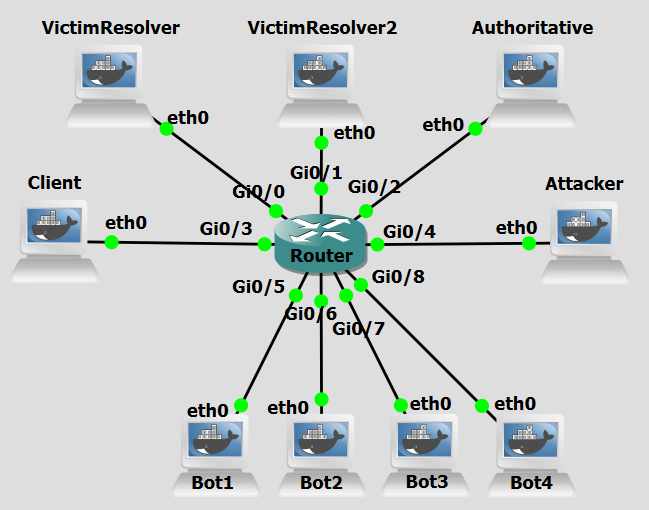
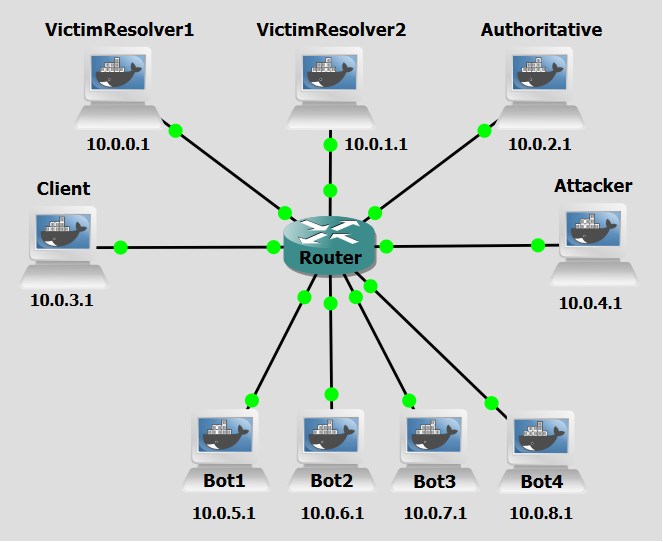
FIX GNS3 figures

Changed region(s): [[0.0308, 0.0, 1.0, 1.0]]

diff --git a/docs/attacks/abuse-misuse/ff-dgas-tunneling.md b/docs/attacks/abuse-misuse/ff-dgas-tunneling.md
@@ -78,7 +78,7 @@ The following scripts were used in this lab:
 
 # Phase 1: FFA Setup, Domain Generation and Registration
 
-### Step 1.1: Create and Configure a Sudo User for Remote Commands
+### Step 1.1: Configure a Sudo User for Remote Commands
 
 For the C&C Server to be able to run commands on the FFAs remotely via SHH it will need new user credentials.
 
@@ -375,4 +375,4 @@ Effective detection of this class of attack cannot rely on reactive, threshold-b
       Considering the three-layer combined attack explored in this lab, propose a detection strategy that could identify this attack without relying on any single stable observable (fixed domain name, fixed IP, or fixed nameserver). What data sources would you correlate, and at what point in the DNS resolution chain would you position your monitoring?
 
 ??? success "Answer"
-An effective strategy must abandon the assumption that any single observable will remain stable. Instead, detection should be based on behavioural fingerprinting across multiple signals simultaneously. The monitoring point should be the Resolver, since it is the only node in the resolution chain that observes all three layers: it sees the DGA-generated domain names (and their failure rate), the authoritative nameserver IPs serving those domains, and the content of the queries themselves (including subdomain length and structure). At that position, a detector could correlate: a cluster of pseudo-random domain names being queried by the same source host (DGA signal); unusually long or high-entropy subdomains appearing within queries to those ephemeral domains (tunneling signal); and short TTLs on both A and NS records across the observed domains (Fast Flux signal). Note that NS IP rotation, the defining observable of Fast Flux in isolation, is not reliably detectable here because the domain rotates with every DGA cycle, the Resolver never accumulates enough NS IP observations per domain to flag rotation as suspicious.   No single one of the remaining signals needs to cross a standalone threshold — instead, the simultaneous co-occurrence of all of them, even at sub-threshold levels, should itself constitute a high-confidence alert. This is fundamentally a multivariate anomaly detection problem, and it is best addressed with machine learning models trained on labelled DNS traffic that include combined attack scenarios, rather than hand-crafted rules designed for isolated techniques.
+      An effective strategy must abandon the assumption that any single observable will remain stable. Instead, detection should be based on behavioural fingerprinting across multiple signals simultaneously. The monitoring point should be the Resolver, since it is the only node in the resolution chain that observes all three layers: it sees the DGA-generated domain names (and their failure rate), the authoritative nameserver IPs serving those domains, and the content of the queries themselves (including subdomain length and structure). At that position, a detector could correlate: a cluster of pseudo-random domain names being queried by the same source host (DGA signal); unusually long or high-entropy subdomains appearing within queries to those ephemeral domains (tunneling signal); and short TTLs on both A and NS records across the observed domains (Fast Flux signal). Note that NS IP rotation, the defining observable of Fast Flux in isolation, is not reliably detectable here because the domain rotates with every DGA cycle, the Resolver never accumulates enough NS IP observations per domain to flag rotation as suspicious.   No single one of the remaining signals needs to cross a standalone threshold — instead, the simultaneous co-occurrence of all of them, even at sub-threshold levels, should itself constitute a high-confidence alert. This is fundamentally a multivariate anomaly detection problem, and it is best addressed with machine learning models trained on labelled DNS traffic that include combined attack scenarios, rather than hand-crafted rules designed for isolated techniques.

diff --git a/docs/attacks/protocol/dhcp-dns-spoofing.md b/docs/attacks/protocol/dhcp-dns-spoofing.md
@@ -58,6 +58,9 @@ In the GNS3 project showed in [Figure 2](#figure-2), you will need to add in the
 
 Configure the **Attacker DNS Server** machine identically to **DNS Server**. It should be configured to be authoritative for example.com as well.
 
+Use Cisco IOSvL2 switches for Sw1 and Sw2.
+
+
 Use this simple configuration for the `Edit config` option of the **Victim1** and **Victim2** machines options menu:
 
 
@@ -65,6 +68,8 @@ Use this simple configuration for the `Edit config` option of the **Victim1** an
 auto eth0
 iface eth0 inet dhcp
 ```
+
+
 
 <br>
 
@@ -238,9 +243,12 @@ The countermeasure will be implemented in the Switches nodes.
 
 <br>
 
-## Configure DHCP Snooping on the Switches
+## DHCP Snooping
+
 
 ### Step 1: Configure DHCP Snooping on Sw1 and Sw2
+
+In these configurations below, g0/0 of Sw1 is connected to the DHCP Server, and g0/2 of Sw2 is connected to Sw1. Adjust to suit your network topology.
 
 On the **Sw1**, run the following configurations:
 
@@ -278,7 +286,7 @@ end
 ### Step 2:  Re-run the attack
 Repeat Step 2.2 to re-run the attack. 
 
-Perform two Wireshark captures right next to the Sw2 interfaces that link to Victim2 and to the Attacker DHCP Server, Gi0/0 and Gi0/1 respectively. 
+Perform two Wireshark captures right next to the Sw2 interfaces that link to Victim2 and to the Attacker DHCP Server. 
 
 <br>
 
@@ -286,10 +294,10 @@ Perform two Wireshark captures right next to the Sw2 interfaces that link to Vic
 
 
 !!! question Question
-     After re-running the attack with DHCP Snooping enabled, inspect the Wireshark capture on the Sw2  interface facing the **Attacker DHCP Server** (Gi0/1). Can you still see DHCP Offer packets originating from 10.0.2.21 being forwarded toward the victims? What does Sw2 do with those packets?
+     After re-running the attack with DHCP Snooping enabled, inspect the Wireshark capture on the Sw2  interface facing the **Attacker DHCP Server**. Can you still see DHCP Offer packets originating from 10.0.2.21 being forwarded toward the victims? What does Sw2 do with those packets?
 
 ??? success "Answer"
-    Yes, the Attacker DHCP Server still sends DHCP Offer packets, which are visible arriving on Sw2's Gi0/1 interface. However, because Gi0/1 is configured as an **untrusted** port, Sw2 silently drops all DHCP server-originated messages (DHCP Offer, DHCP ACK) received on it. These packets never reach the victim-side ports. In the Wireshark capture on the Victim2-facing interface (Gi0/0 on Sw2), only DHCP Offers from the legitimate DHCP Server (arriving via the trusted uplink Gi0/2) are forwarded through.
+    Yes, the Attacker DHCP Server still sends DHCP Offer packets, which are visible arriving on Sw2's Gi0/1 interface. However, because that interface is configured as an **untrusted** port, Sw2 silently drops all DHCP server-originated messages (DHCP Offer, DHCP ACK) received on it. These packets never reach the victim-side ports. In the Wireshark capture on the Victim2-facing interface of Sw2, only DHCP Offers from the legitimate DHCP Server (arriving via the trusted uplink) are forwarded through.
 
 
 !!! question Question

diff --git a/docs/attacks/protocol/rebinding.md b/docs/attacks/protocol/rebinding.md
@@ -2,7 +2,7 @@
 
 DNS Rebinding is a technique that allows an attacker to bypass the same-origin policy in web browsers, enabling malicious scripts to interact with private network services as if they originated from within the trusted network. There are two primary ways to carry out the attack:
 
-Client-side rebinding via a malicious website: In the most common form of the attack, the attacker tricks the victim into visiting a malicious website such as attacker.com, which the attacker controls. When the victim's browser loads the page, it performs a DNS lookup for attacker.com, and the attacker’s DNS server responds with an IP address pointing to an attacker-controlled web server on the internet. The browser loads malicious JavaScript from this server. Later, when the JavaScript makes another request to attacker.com, the attacker responds with a different IP address, for example, a private IP such as 192.168.0.2. Because the domain name remains the same, the browser still considers the request to be the same origin. This allows the malicious script to access internal network resources as if they were part of \textbf{attacker.com}, breaching the network’s perimeter defenses.
+Client-side rebinding via a malicious website: In the most common form of the attack, the attacker tricks the victim into visiting a malicious website such as attacker.com, which the attacker controls. When the victim's browser loads the page, it performs a DNS lookup for attacker.com, and the attacker’s DNS server responds with an IP address pointing to an attacker-controlled web server on the internet. The browser loads malicious JavaScript from this server. Later, when the JavaScript makes another request to attacker.com, the attacker responds with a different IP address, for example, a private IP such as 192.168.0.2. Because the domain name remains the same, the browser still considers the request to be the same origin. This allows the malicious script to access internal network resources as if they were part of attacker.com, breaching the network’s perimeter defenses.
     
 Rebinding via a compromised local DNS resolver: A more difficult but potentially more powerful variation of the attack involves the attacker gaining control of the DNS resolver used by the victim’s network — for example, through malware or misconfiguration. If the attacker controls the resolver, they can manipulate DNS responses without needing the victim to visit a malicious website. This allows for DNS rebinding attacks to be launched passively or on-demand, targeting devices inside the local network without user interaction.
 
